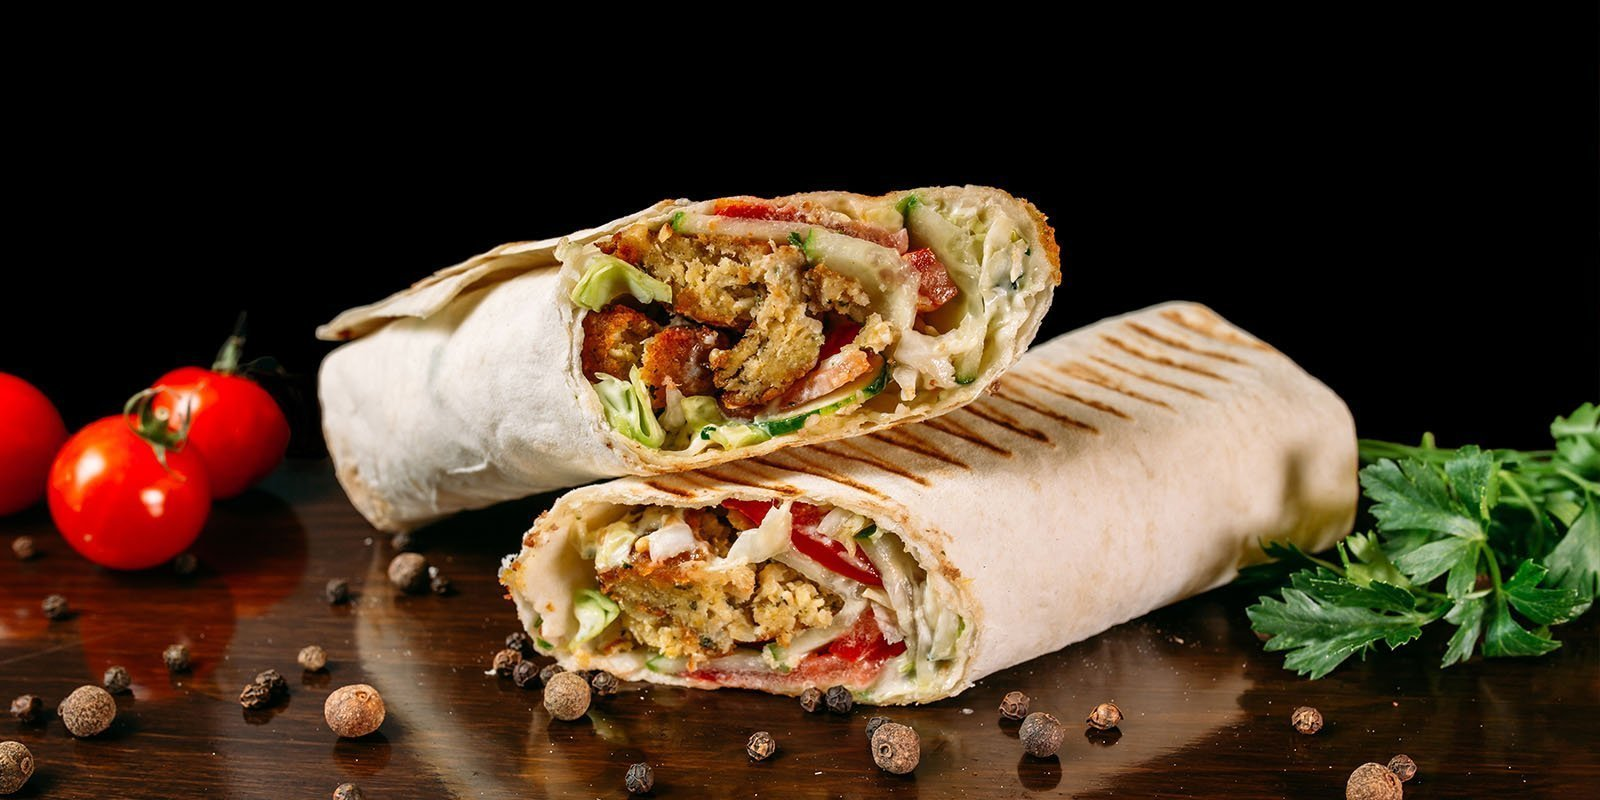
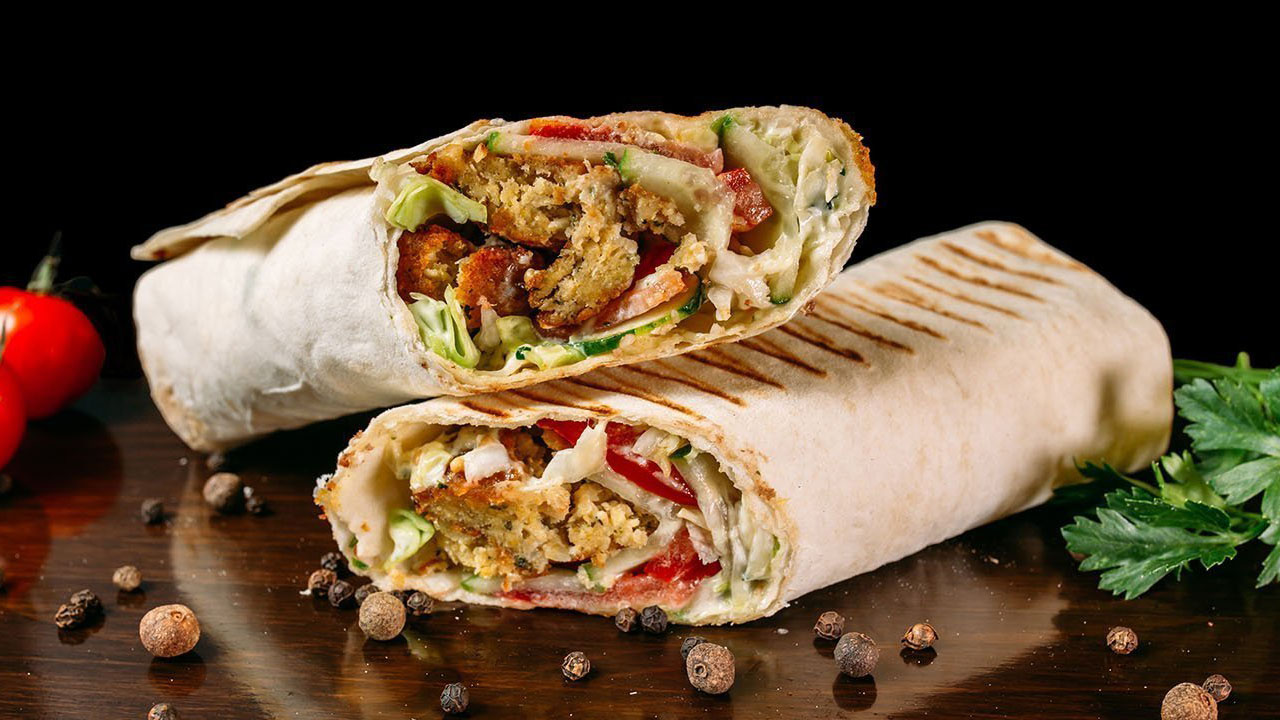
Поменял размеры фотография для более удобного использования

diff --git a/JS/localStorage.js b/JS/localStorage.js
@@ -19,7 +19,7 @@ class Shaverma {
 }
 
 if (localStorage.length != 0) {
-    black = new Shaverma('Шаурма "Black"', 'images/header_page/black_shaverma.jpeg', 'Вкусная чёрная шава, хороша для негров', 340, 400, 'Черный лаваш, свинина, картошка фри, маринованный огурчик, свежий помидор, чёрный фирменный соус, краситель: натуральные чернила осьминога', 1);
+    black = new Shaverma('Шаурма "Black"', 'images/header_page/black_shaverma.png', 'Вкусная чёрная шава, хороша для негров', 340, 400, 'Черный лаваш, свинина, картошка фри, маринованный огурчик, свежий помидор, чёрный фирменный соус, краситель: натуральные чернила осьминога', 1);
     bigBro = new Shaverma('Шаурма Биг Бро', 'images/header_page/XXL.jpg','Новинка! Новый, свежий, многогранный вкус, который собрал в себе то, что понравится каждому! То, что мы все так сильно любим!!', 450, 500,'Розовый лаваш, мясо креветок, горчичный соус, пекинская капуста, соус барбекю, сырный соус, перец халапеньо, свежая морковка, семена подсолнечника', 1);
     gigant = new Shaverma('Шаурма Гигант', 'images/header_page/XXL_shaverma.png', 'Большая шаурма для больших мальчиков', 600, 600, 'Лаваш, говядина, куриное филе, картошка фри, перец халапеньо, свежий помидор, маринованный огурчик, корейская морковка, острый соус', 1);
     }

diff --git a/CSS/slider.css b/CSS/slider.css
@@ -135,7 +135,7 @@
 }
 
 .slide2 {
-    background-image: url("../images/header_page/black_shaverma.jpeg");
+    background-image: url("../images/header_page/black_shaverma.png");
     opacity: 0.95;
 }
 
